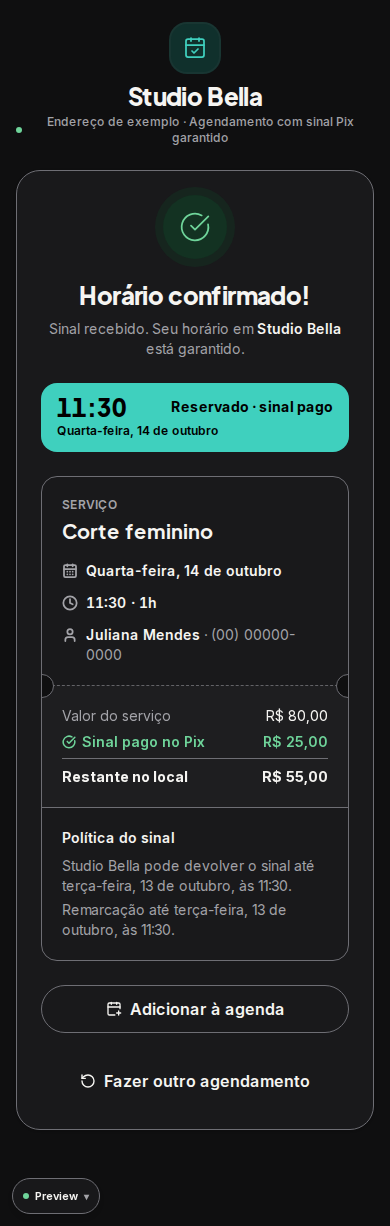
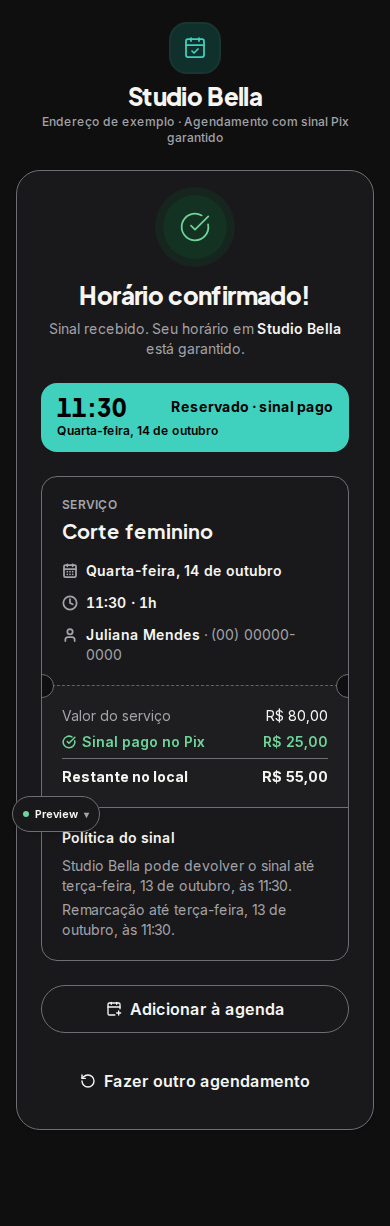
fix: drop the decorative dot before the preview address
The green mark was not a status indicator. The address line now centers with the business name.

Changed region(s): [[0.0923, 0.093, 0.8923, 0.124], [0.0308, 0.9608, 0.2462, 0.9918], [0.0308, 0.6509, 0.2462, 0.6819]]

diff --git a/components/preview/PreviewBookingFlow.tsx b/components/preview/PreviewBookingFlow.tsx
@@ -216,8 +216,7 @@ export function PreviewBookingFlow({
         <h1 className="font-display text-2xl font-extrabold tracking-tight text-foreground">
           {MOCK_PUBLIC_BUSINESS.name}
         </h1>
-        <p className="flex items-center justify-center gap-1.5 text-xs font-medium text-muted-foreground">
-          <span className="inline-block h-1.5 w-1.5 rounded-full bg-success" />
+        <p className="text-xs font-medium text-muted-foreground">
           {MOCK_BUSINESS_INFO.address} · Agendamento com sinal Pix garantido
         </p>
       </div>
